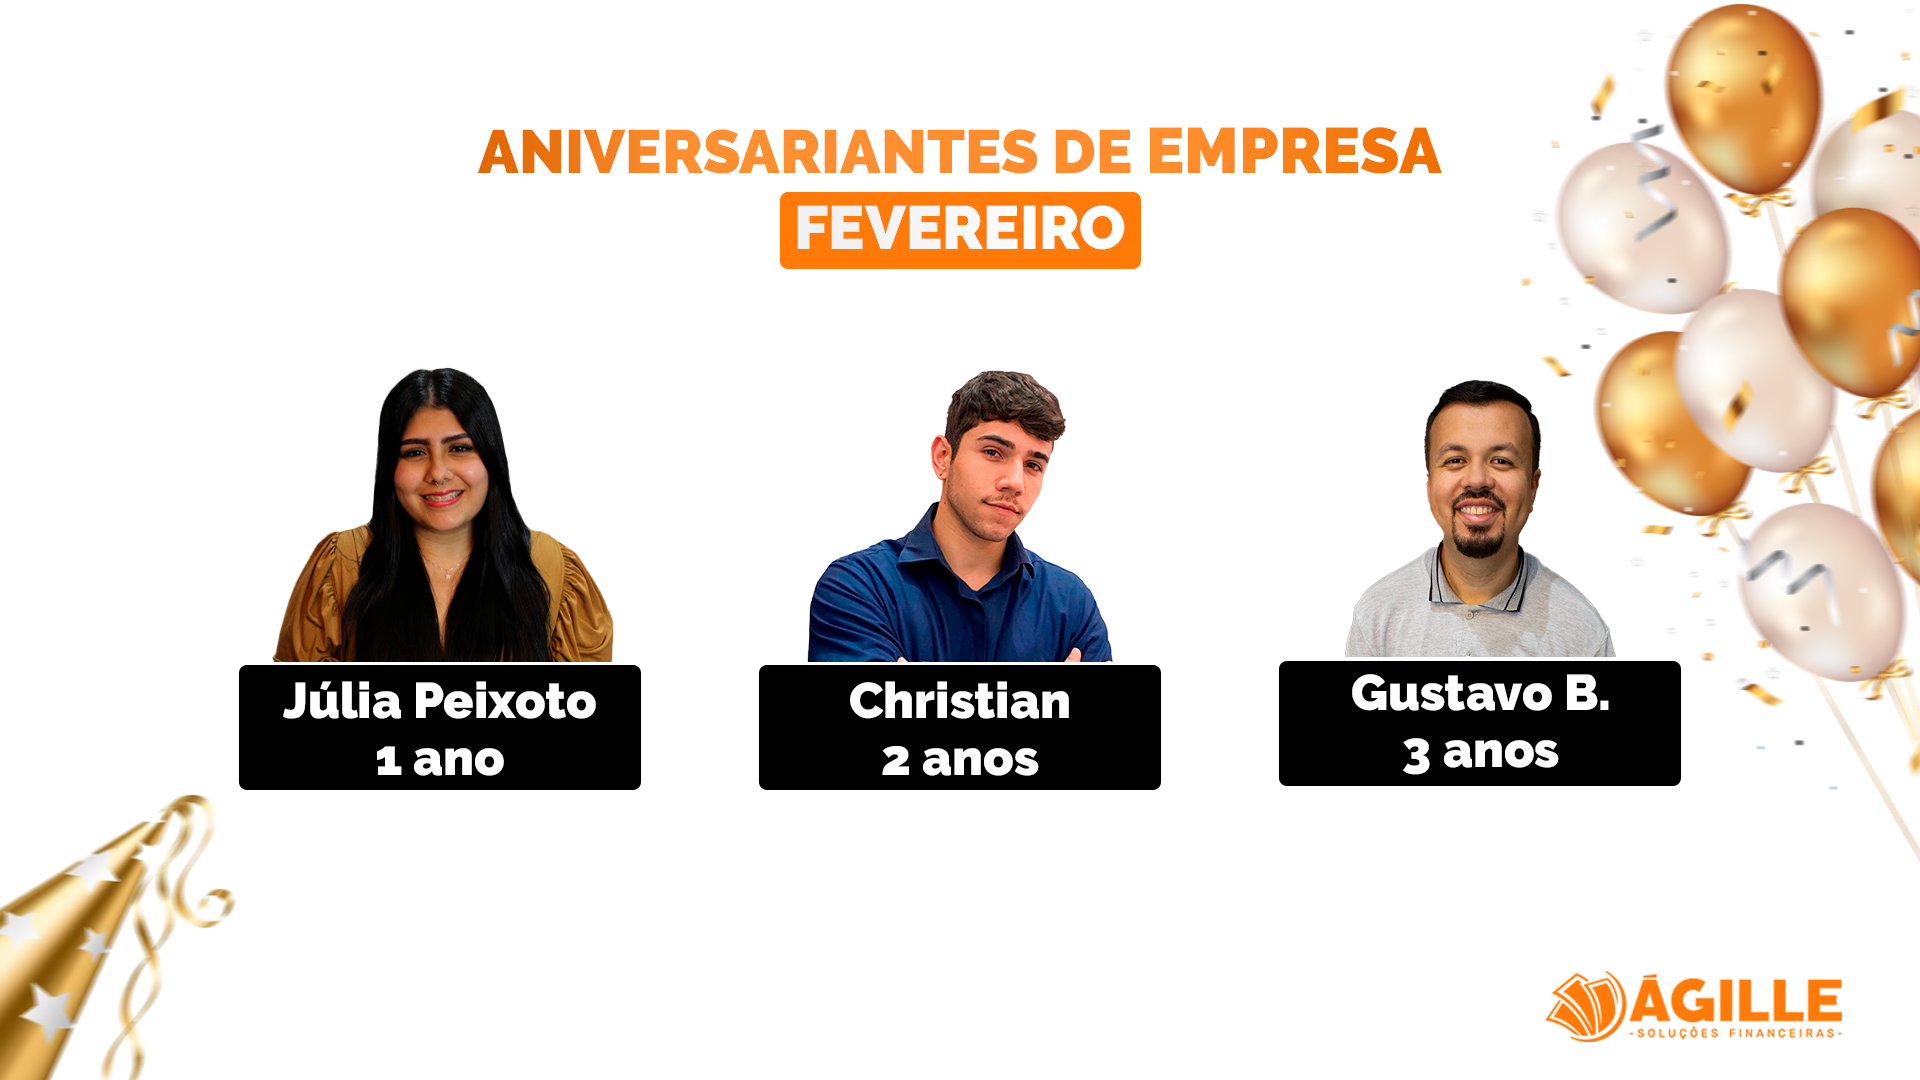
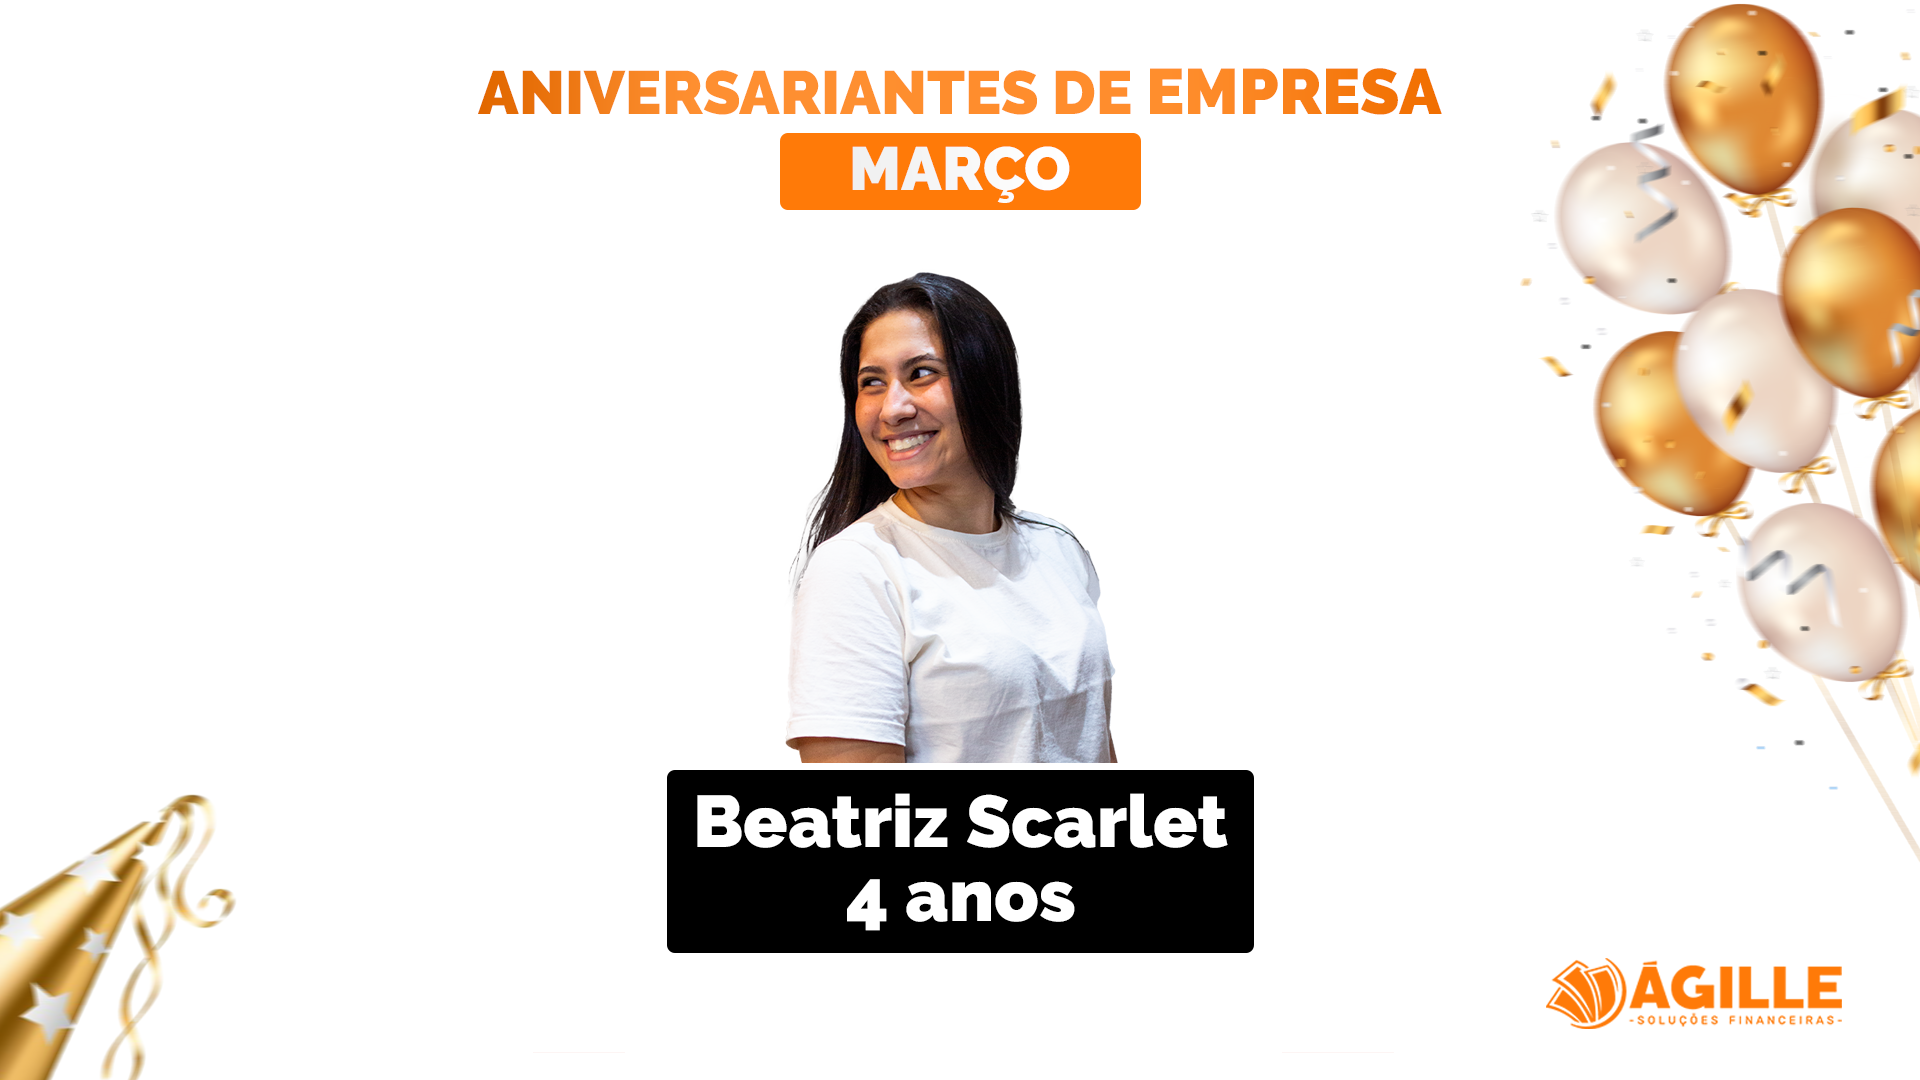
att março¹

Changed region(s): [[0.125, 0.0611, 0.875, 0.8861], [0.7812, 0.8861, 0.9688, 0.9778]]

diff --git a/index.html b/index.html
@@ -21,28 +21,13 @@
 				<img src="img/1.png" class="d-block w-100">
 			</div>
 			<div class="carousel-item" data-bs-interval="15000">
-				<img src="img/aniversariantes-fevereiro.png" class="d-block w-100">
+				<img src="img/aniversariantes-mes.png" class="d-block w-100">
 			</div>
 			<div class="carousel-item" data-bs-interval="15000">
 				<img src="img/aniversariantes-empresa.png" class="d-block w-100">
 			</div>
 			<div class="carousel-item" data-bs-interval="15000">
-				<img src="img/saude.png" class="d-block w-100">
-			</div>
-			<div class="carousel-item" data-bs-interval="15000">
-				<img src="img/sexta-de-carnaval-2025.png" class="d-block w-100">
-			</div>
-			<div class="carousel-item" data-bs-interval="15000">
-				<img src="img/campanha-ultima-semana-1.png" class="d-block w-100">
-			</div>
-			<div class="carousel-item" data-bs-interval="15000">
-				<img src="img/campanha-ultima-semana-2.png" class="d-block w-100">
-			</div>
-			<div class="carousel-item" data-bs-interval="15000">
-				<img src="img/campanha-ultima-semana-3.png" class="d-block w-100">
-			</div>
-			<div class="carousel-item" data-bs-interval="15000">
-				<img src="img/campanha-ultima-semana-4.png" class="d-block w-100">
+				<img src="img/dicas-vendas.png" class="d-block w-100">
 			</div>
 			<div class="carousel-item" data-bs-interval="15000">
 				<iframe title="pg1" width="1920" height="1080" src="https://lookerstudio.google.com/embed/u/0/reporting/f188d704-4cf0-4202-beeb-d5abaf39aaa1/page/p_sbwffhqmpd" frameborder="0" allowFullScreen="true"></iframe>
